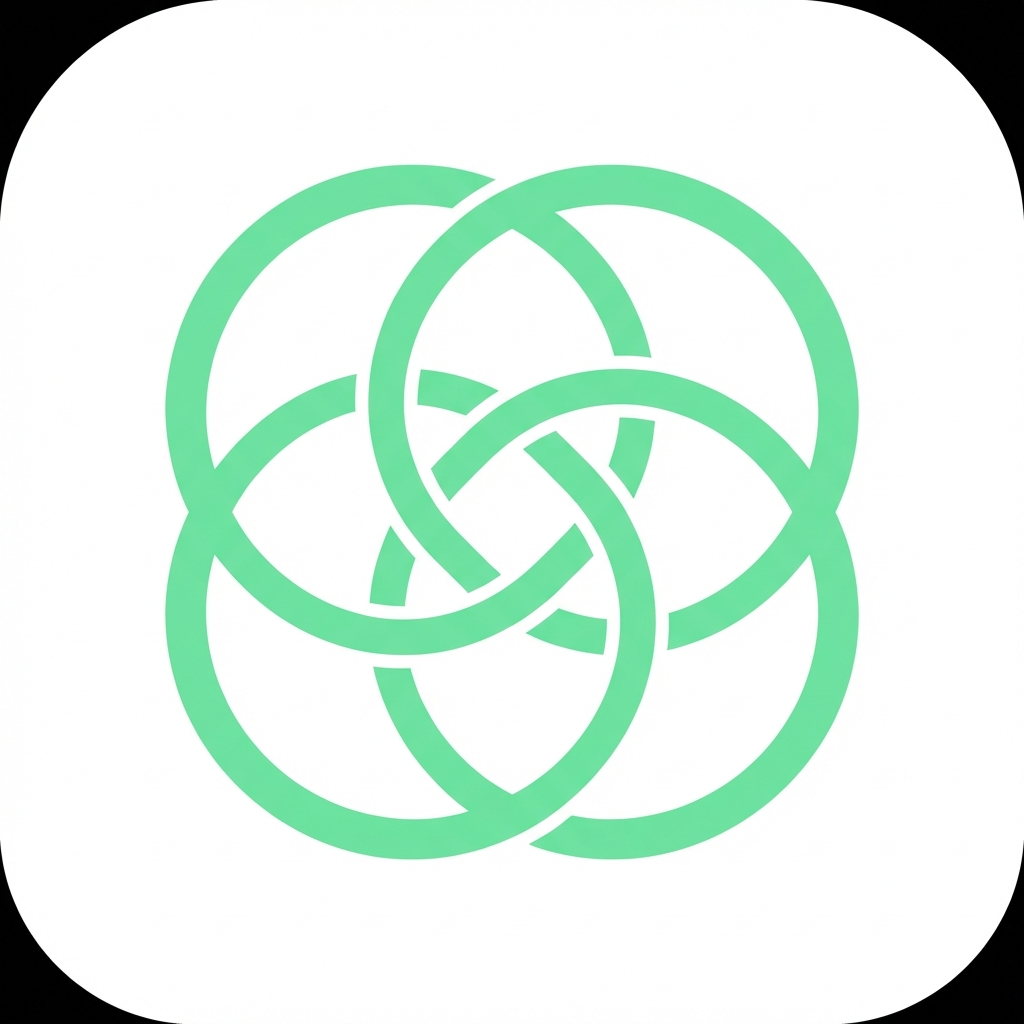
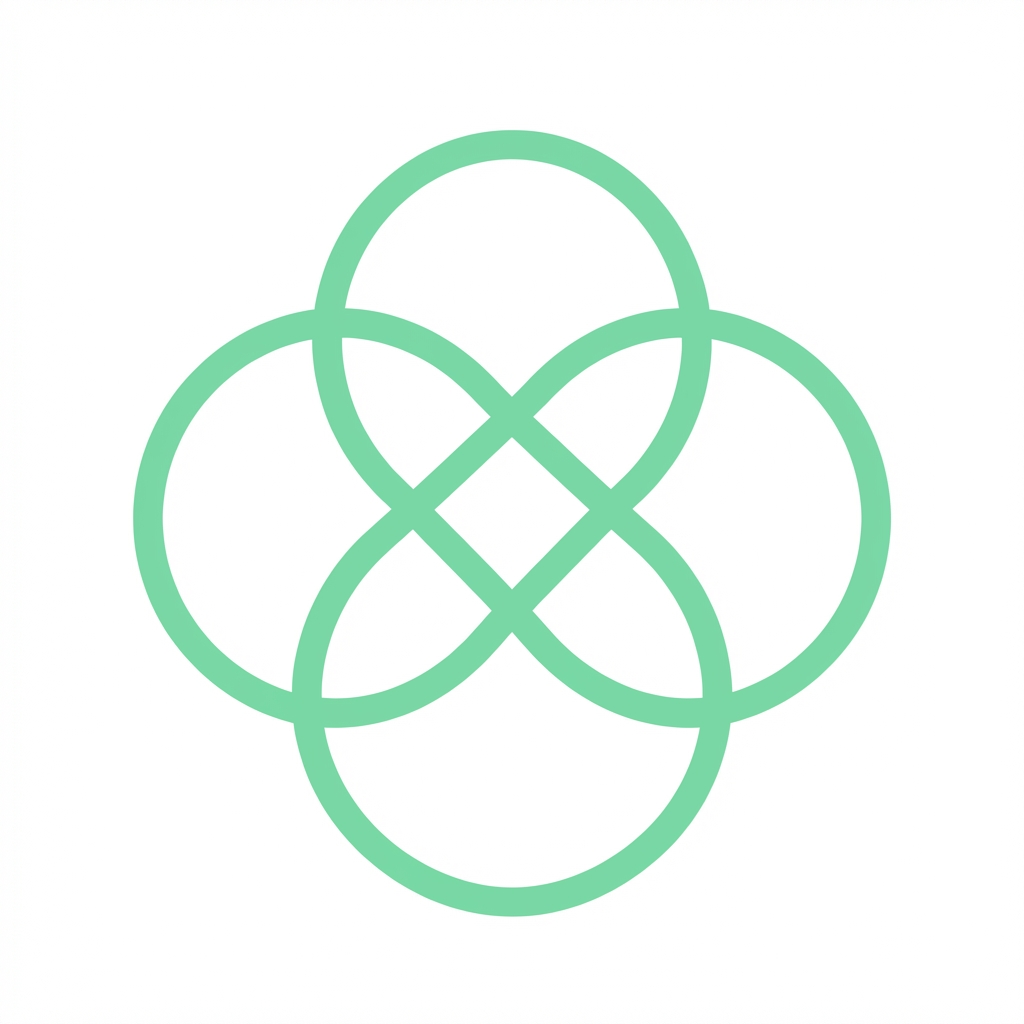
change made

diff --git a/client/src/components/Logo.tsx b/client/src/components/Logo.tsx
@@ -1,23 +1,37 @@
 import React from 'react';
-import logoPng from '../assets/logo.png';
 
 interface LogoProps {
     size?: number;
     className?: string;
+    color?: string;
 }
 
-const Logo: React.FC<LogoProps> = ({ size = 40, className = "" }) => {
+const Logo: React.FC<LogoProps> = ({ size = 40, className = "", color = "#A5D6B7" }) => {
     return (
-        <img
-            src={logoPng}
+        <svg
             width={size}
             height={size}
-            alt="SKUL MOGULZ"
+            viewBox="0 0 100 100"
+            fill="none"
+            xmlns="http://www.w3.org/2000/svg"
             className={className}
-            style={{ borderRadius: '20%' }}
-        />
+        >
+            <g stroke={color} strokeWidth="6" opacity="0.9">
+                {/* Top Circle */}
+                <circle cx="50" cy="38" r="28" />
+                {/* Bottom Circle */}
+                <circle cx="50" cy="62" r="28" />
+                {/* Left Circle */}
+                <circle cx="38" cy="50" r="28" />
+                {/* Right Circle */}
+                <circle cx="62" cy="50" r="28" />
+            </g>
+            {/* Central highlight */}
+            <circle cx="50" cy="50" r="4" fill={color} />
+        </svg>
     );
 };
 
 export default Logo;
+
 

diff --git a/mobile/components/Logo.tsx b/mobile/components/Logo.tsx
@@ -1,19 +1,35 @@
 import React from 'react';
-import { Image, StyleSheet } from 'react-native';
+import Svg, { Circle, G } from 'react-native-svg';
 
 interface LogoProps {
     size?: number;
+    color?: string;
 }
 
-const Logo: React.FC<LogoProps> = ({ size = 40 }) => {
+const Logo: React.FC<LogoProps> = ({ size = 40, color = "#A5D6B7" }) => {
     return (
-        <Image
-            source={require('../assets/images/icon.png')}
-            style={{ width: size, height: size, borderRadius: size * 0.2 }}
-            resizeMode="contain"
-        />
+        <Svg
+            width={size}
+            height={size}
+            viewBox="0 0 100 100"
+            fill="none"
+        >
+            <G stroke={color} strokeWidth="6" opacity="0.9">
+                {/* Top Circle */}
+                <Circle cx="50" cy="38" r="28" />
+                {/* Bottom Circle */}
+                <Circle cx="50" cy="62" r="28" />
+                {/* Left Circle */}
+                <Circle cx="38" cy="50" r="28" />
+                {/* Right Circle */}
+                <Circle cx="62" cy="50" r="28" />
+            </G>
+            {/* Central highlight */}
+            <Circle cx="50" cy="50" r="4" fill={color} />
+        </Svg>
     );
 };
 
 export default Logo;
+
 
